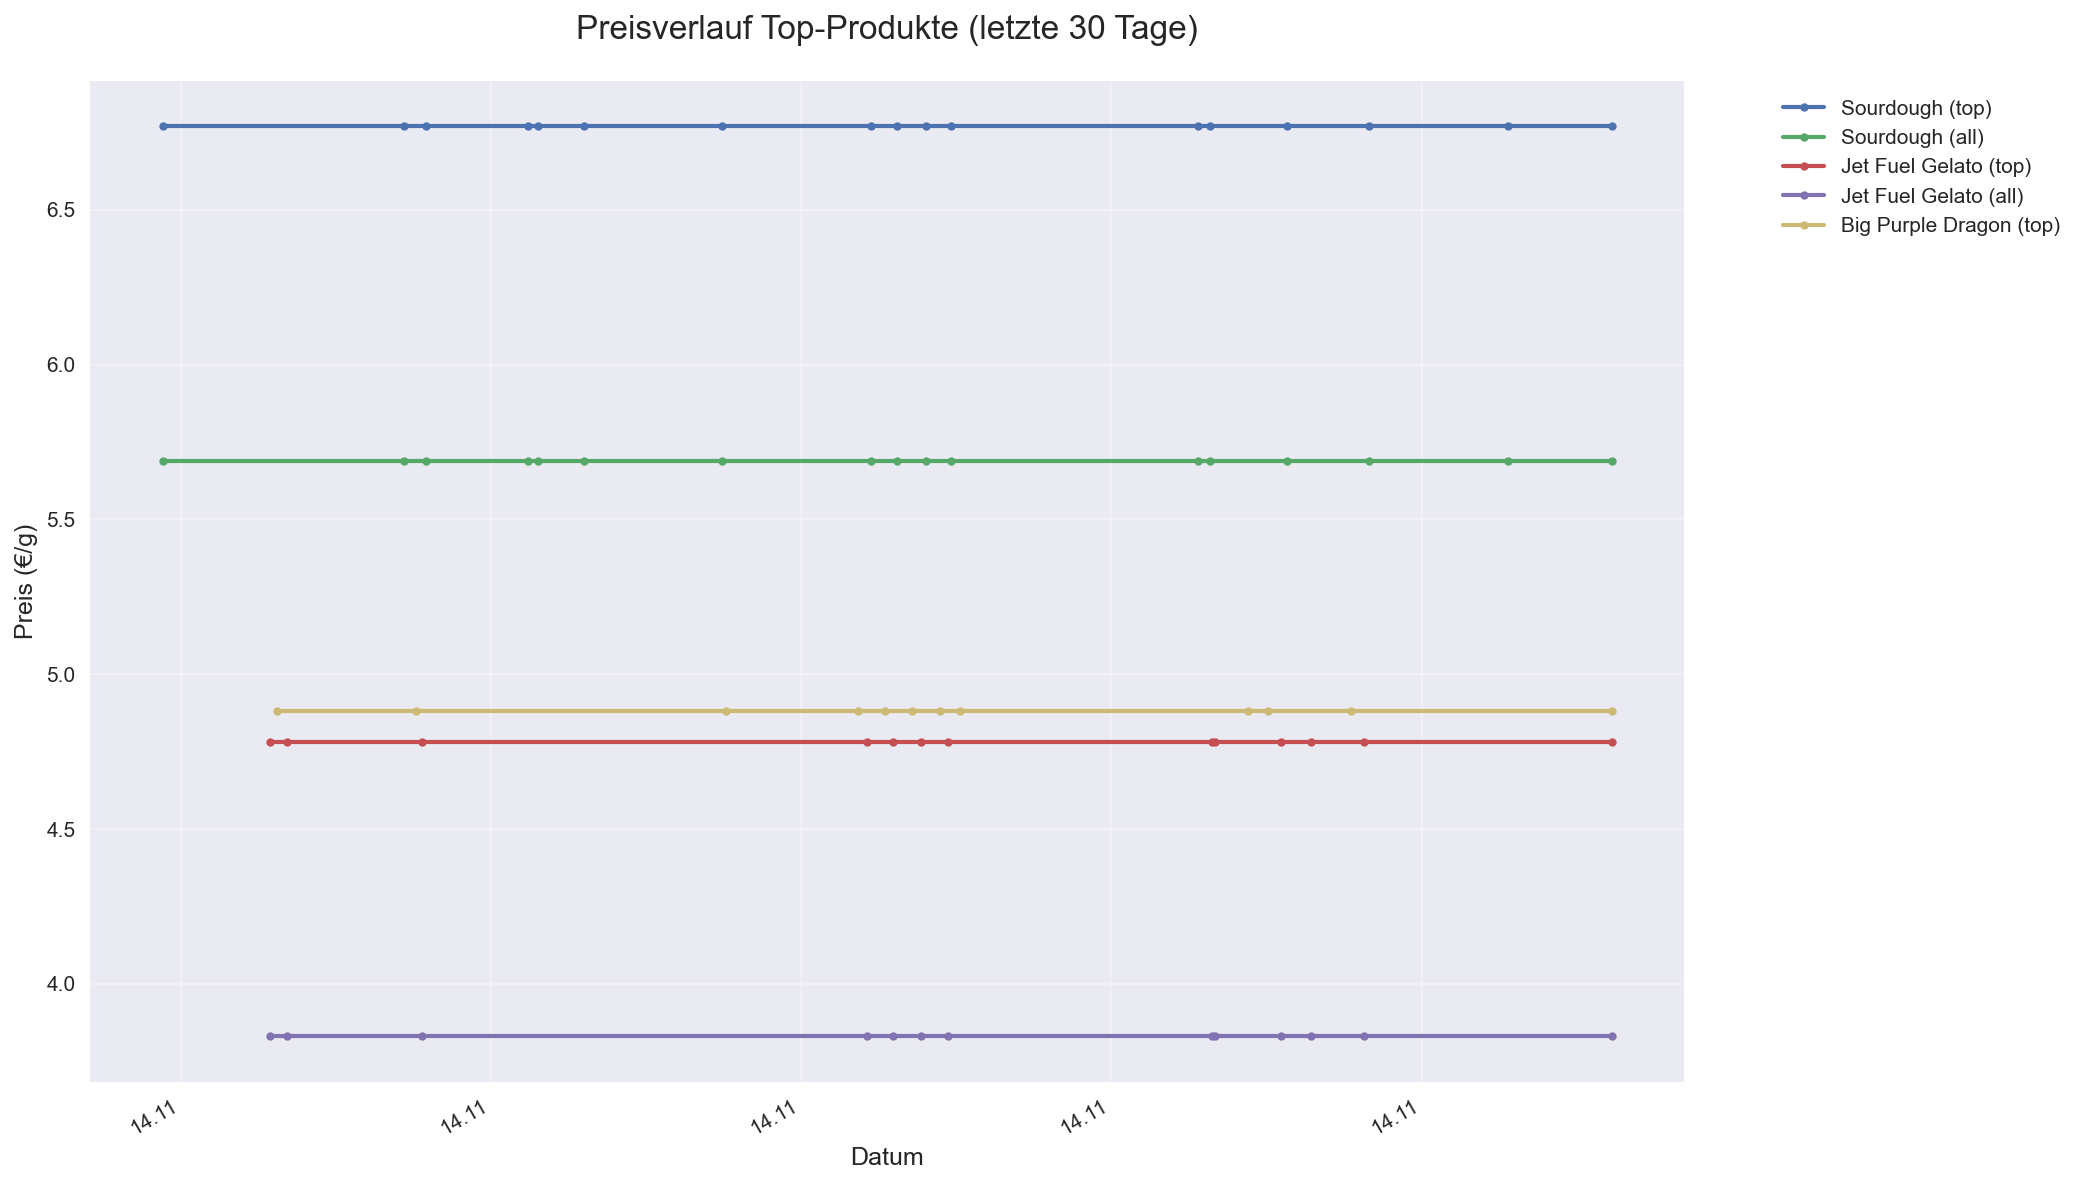
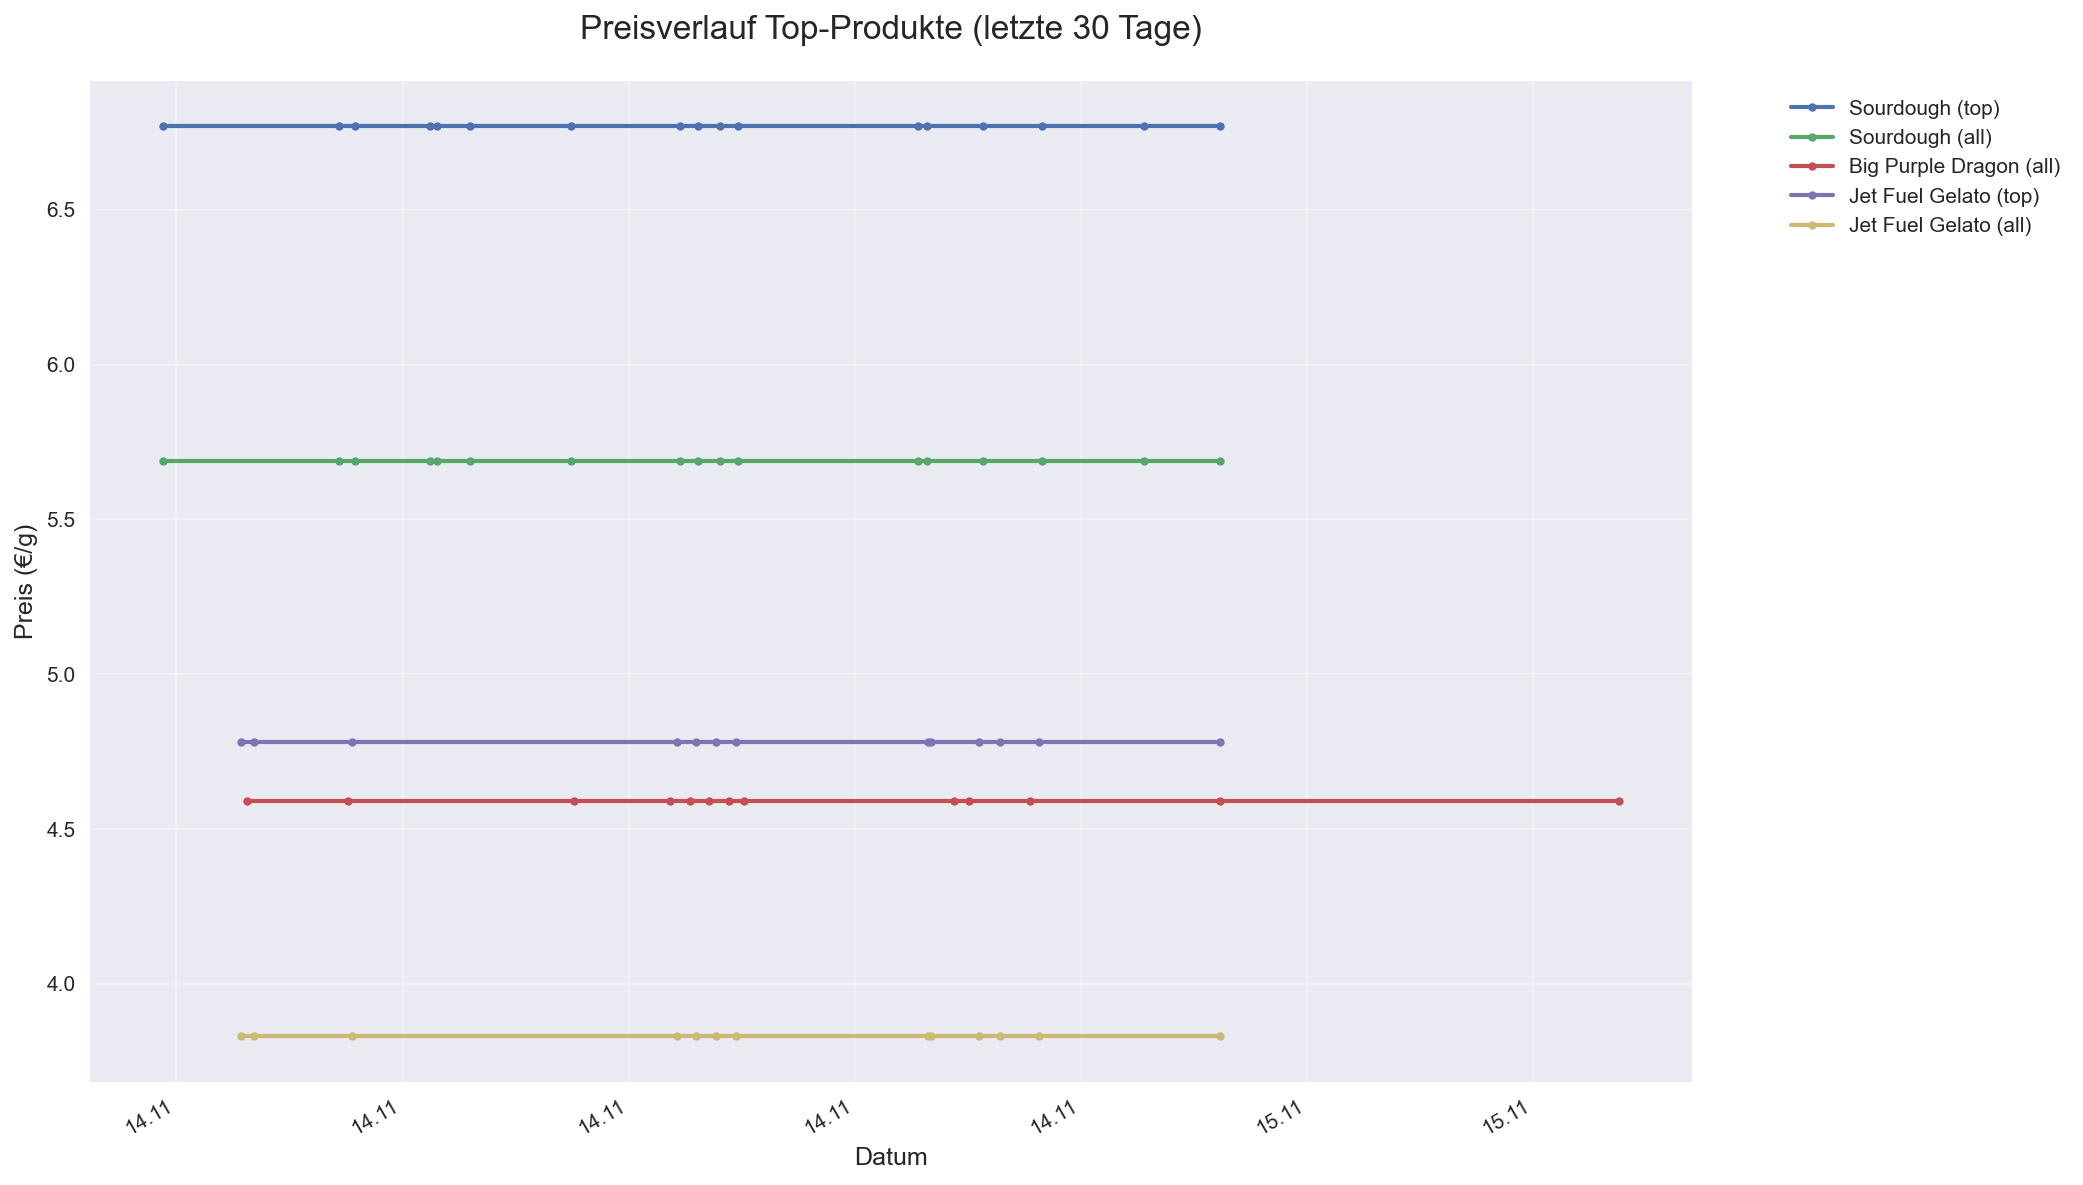
Update charts with latest price data from database refresh

diff --git a/scripts/update_prices.py b/scripts/update_prices.py
@@ -78,30 +78,105 @@ async def scrape_price_for_product(page: Page, product_name: str, vendor_id: str
         await page.goto(full_product_url, wait_until='networkidle', timeout=30000)
         await page.wait_for_timeout(2000)
 
-        # Extract only price and pharmacy
+        # Extract only price and pharmacy using multiple methods (same as add_product.py)
         pharmacy_name = None
         price_per_g = None
 
-        print(f"   🔍 Extracting pharmacy and price...")
+        print(f"   🔍 Starting pharmacy/price extraction...")
         try:
-            # Look for "Buying from" section which contains pharmacy and price
-            buying_from_text = await page.locator('text=/Buying from/').inner_text()
-            print(f"   📄 Found buying section")
+            # Method 0: Try "Buying from" section first (most reliable)
+            print(f"   🔍 Method 0: Trying 'Buying from' section...")
+            try:
+                buying_from_text = await page.locator('text=/Buying from/').inner_text()
+                print(f"   📄 Found buying section")
 
-            # Extract pharmacy name - look for text after "Buying from"
-            pharmacy_match = re.search(r'Buying from\s*(.+?)(?:\s*€|\s*$)', buying_from_text)
-            if pharmacy_match:
-                pharmacy_name = pharmacy_match.group(1).strip()
-                print(f"   🏥 Found pharmacy: {pharmacy_name}")
+                # Extract pharmacy name - look for text after "Buying from"
+                pharmacy_match = re.search(r'Buying from\s*(.+?)(?:\s*€|\s*$)', buying_from_text)
+                if pharmacy_match:
+                    pharmacy_name = pharmacy_match.group(1).strip()
+                    print(f"   🏥 Found pharmacy: {pharmacy_name}")
 
-            # Extract price - look for €X.XX / g pattern in the buying section
-            price_match = re.search(r'€(\d+\.\d+)\s*/\s*g', buying_from_text)
-            if price_match:
-                price_per_g = float(price_match.group(1))
-                print(f"   💰 Found price: €{price_per_g}/g")
+                # Extract price - look for €X.XX / g pattern in the buying section
+                price_match = re.search(r'€(\d+\.\d+)\s*/\s*g', buying_from_text)
+                if price_match:
+                    price_per_g = float(price_match.group(1))
+                    print(f"   💰 Found price: €{price_per_g}/g")
+
+                if pharmacy_name and price_per_g:
+                    print(f"   ✅ Method 0 successful: {pharmacy_name} - €{price_per_g}/g")
+                    return {
+                        'pharmacy_name': pharmacy_name,
+                        'price_per_g': price_per_g,
+                        'category': vendor_id
+                    }
+
+            except Exception as e:
+                print(f"   ⚠ Method 0 failed: {e}")
+
+            # Method 1: Look for price elements with €/g pattern
+            price_elements = await page.locator(r'text=/€\s*\d+\.\d+\s*\/\s*g/').all()
+            print(f"   🔍 Method 1: Found {len(price_elements)} price elements")
+
+            for price_elem in price_elements:
+                try:
+                    price_text = await price_elem.inner_text()
+                    price_match = re.search(r'€\s*(\d+\.\d+)\s*/\s*g', price_text)
+                    if price_match:
+                        price_per_g = float(price_match.group(1))
+                        print(f"   💰 Found price: €{price_per_g}/g")
+
+                        # Look for nearby pharmacy name
+                        parent = price_elem.locator('..')
+                        parent_text = await parent.inner_text()
+
+                        # Search for Apotheke in parent text
+                        pharmacy_match = re.search(r'([^\n]*Apotheke[^\n]*)', parent_text)
+                        if pharmacy_match:
+                            pharmacy_name = pharmacy_match.group(1).strip()
+                            print(f"   🏥 Found pharmacy: {pharmacy_name}")
+                            break
+                        else:
+                            # Try broader search for Apotheke
+                            apotheke_elements = await page.locator('text=/Apotheke/').all()
+                            for apo_elem in apotheke_elements:
+                                apo_text = await apo_elem.inner_text()
+                                if 'Apotheke' in apo_text and len(apo_text.strip()) > 8:
+                                    pharmacy_name = apo_text.strip()
+                                    print(f"   🏥 Found pharmacy via search: {pharmacy_name}")
+                                    break
+
+                            if pharmacy_name:
+                                break
+                except:
+                    continue
+
+            # Method 2: If no price found, try different approach
+            if not price_per_g:
+                print(f"   🔍 Method 2: Trying alternative price extraction...")
+                body_text = await page.locator('body').inner_text()
+
+                # Find all price patterns
+                price_matches = re.finditer(r'€\s*(\d+\.\d+)\s*/\s*g', body_text)
+                for match in price_matches:
+                    price_per_g = float(match.group(1))
+                    print(f"   💰 Found price via text search: €{price_per_g}/g")
+
+                    # Look for Apotheke near this price
+                    start_pos = max(0, match.start() - 200)
+                    end_pos = match.end() + 200
+                    context = body_text[start_pos:end_pos]
+
+                    pharmacy_match = re.search(r'([^\n]*Apotheke[^\n]*)', context)
+                    if pharmacy_match:
+                        pharmacy_name = pharmacy_match.group(1).strip()
+                        print(f"   🏥 Found pharmacy near price: {pharmacy_name}")
+                        break
+
+                    # If we found a price, break after first one
+                    break
 
         except Exception as e:
-            print(f"   ⚠ Error extracting from buying section: {e}")
+            print(f"   ⚠ Error during pharmacy/price extraction: {e}")
 
         if pharmacy_name and price_per_g:
             print(f"   💰 {pharmacy_name}: €{price_per_g}/g")

diff --git a/docs/DATEN_VISUALISIERUNGEN.md b/docs/DATEN_VISUALISIERUNGEN.md
@@ -10,7 +10,7 @@ description: Datenvisualisierungen und Diagramme für WeedDB
 # 📊 WeedDB Datenvisualisierungen
 
 Diese Seite enthält automatisch generierte Diagramme und Visualisierungen der WeedDB-Daten.
-**Letzte Aktualisierung:** 15.11.2025 01:18
+**Letzte Aktualisierung:** 15.11.2025 01:23
 
 ## 📈 Preisverläufe
 
